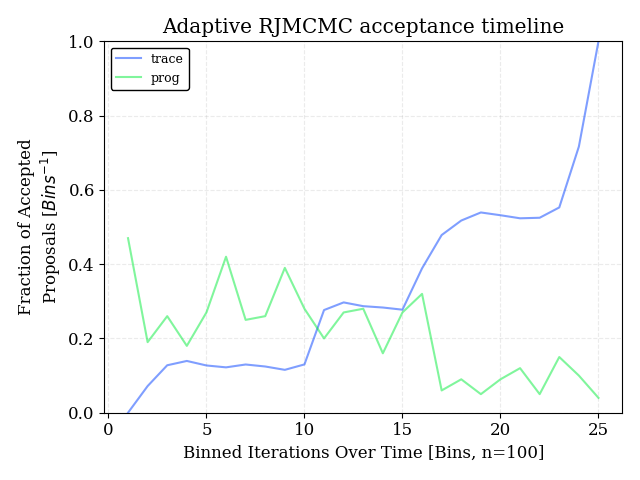
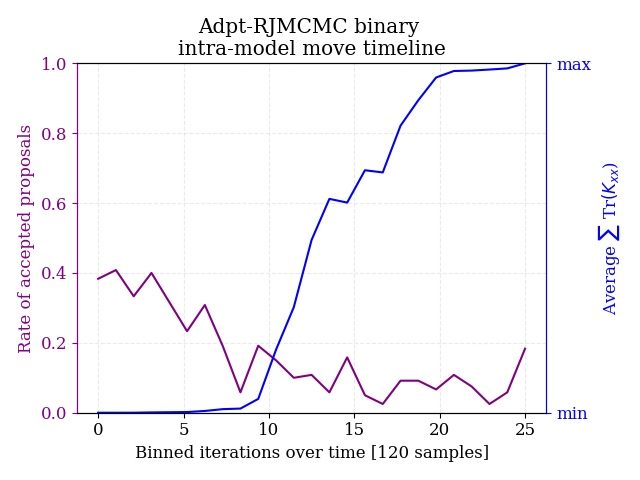
arjmcmc plot

diff --git a/PlotFunctions.py b/PlotFunctions.py
@@ -264,7 +264,7 @@ def DistPlot(xi, states, labels, symbols, letters, m, model, center, true, prior
 
 def AdaptiveProgression(history, covs, name):
 
-    size = 100#50
+    size = int(len(history)/25)#100#50
     
     if len(history) <= size:
         plt.scatter(0, 0)
@@ -287,16 +287,48 @@ def AdaptiveProgression(history, covs, name):
 
     normed_trace = (trace - np.min(trace))/(np.max(trace)-np.min(trace))
 
-    plt.plot((np.linspace(1, bins - 1, num = bins - 1)), normed_trace, label = 'trace', alpha = 0.5)
 
-    plt.plot((np.linspace(1, bins - 1, num = bins - 1)), acc, label = 'prog', alpha = 0.5)
+    rate_colour = 'purple'
+    trace_colour = 'blue'
 
-    plt.ylim((0.0, 1.0))
-    plt.xlabel(f'Binned Iterations Over Time [Bins, n={size}]')
-    plt.ylabel('Fraction of Accepted\nProposals '+r'[$Bins^{-1}$]')
-    plt.title('Adaptive RJMCMC acceptance timeline')
-    plt.legend()
+    a1 = plt.axes()
+    a1.plot((np.linspace(0, bins - 1, num = bins - 1)), acc, c = rate_colour)
+    
+
+    a1.set_ylabel('Rate of accepted proposals')
+    a1.set_ylim((0.0, 1.0))
+
+
     plt.grid()
+    a1.set_xlabel(f'Binned iterations over time [{size} samples]')
+    a2 = a1.twinx()
+
+    a2.plot((np.linspace(0, bins - 1, num = bins - 1)), normed_trace, c = trace_colour)
+    a2.set_ylabel(r'Average $\sum$ Tr$(K_{xx}$)')
+    
+    a2.set_ylim((0.0, 1.0))
+    a2.set_yticks([0.0, 1.0])
+    a2.set_yticklabels(['min', 'max'])
+
+    
+
+
+    a1.spines['left'].set_color(rate_colour)
+    a2.spines['left'].set_color(rate_colour)
+
+    a1.yaxis.label.set_color(rate_colour)
+    a1.tick_params(axis = 'y', colors = rate_colour)
+
+    a2.spines['right'].set_color(trace_colour)
+    a1.spines['right'].set_color(trace_colour)
+
+    a2.yaxis.label.set_color(trace_colour)
+    a2.tick_params(axis = 'y', colors = trace_colour)
+
+
+    plt.title('Adpt-RJMCMC '+name+' \nintra-model move timeline')
+    #plt.legend()
+
     plt.tight_layout()
     plt.savefig('Plots/Adaptive-RJMCMC-acceptance-progression-'+name+'.png')
     plt.clf()

diff --git a/ReversibleJump.py b/ReversibleJump.py
@@ -323,15 +323,15 @@ single_true = False#f.scale(theta_Model)
 binary_true = f.scale(theta_Model)
 
 burns = 25
-iters = 825
-iterations = 6000
+iters = 475
+iterations = 10000
 truncation_iterations = 0
 
 n_epochs = 720
 
 n_points = 2
 
-signal_to_noise_baseline = 63.0#np.random.uniform(23.0, 230.0) # Lower means noisier
+signal_to_noise_baseline = 23.0#np.random.uniform(23.0, 230.0) # Lower means noisier
 
 uniform_priors = False
 informative_priors = True
@@ -682,6 +682,7 @@ n_density = 5
 pltf.AdaptiveProgression(adaptive_score[1], covs[1][:], 'binary')
 pltf.AdaptiveProgression(adaptive_score[0], covs[0][:], 'single')
 
+throw=throw
 
 if False:
 
